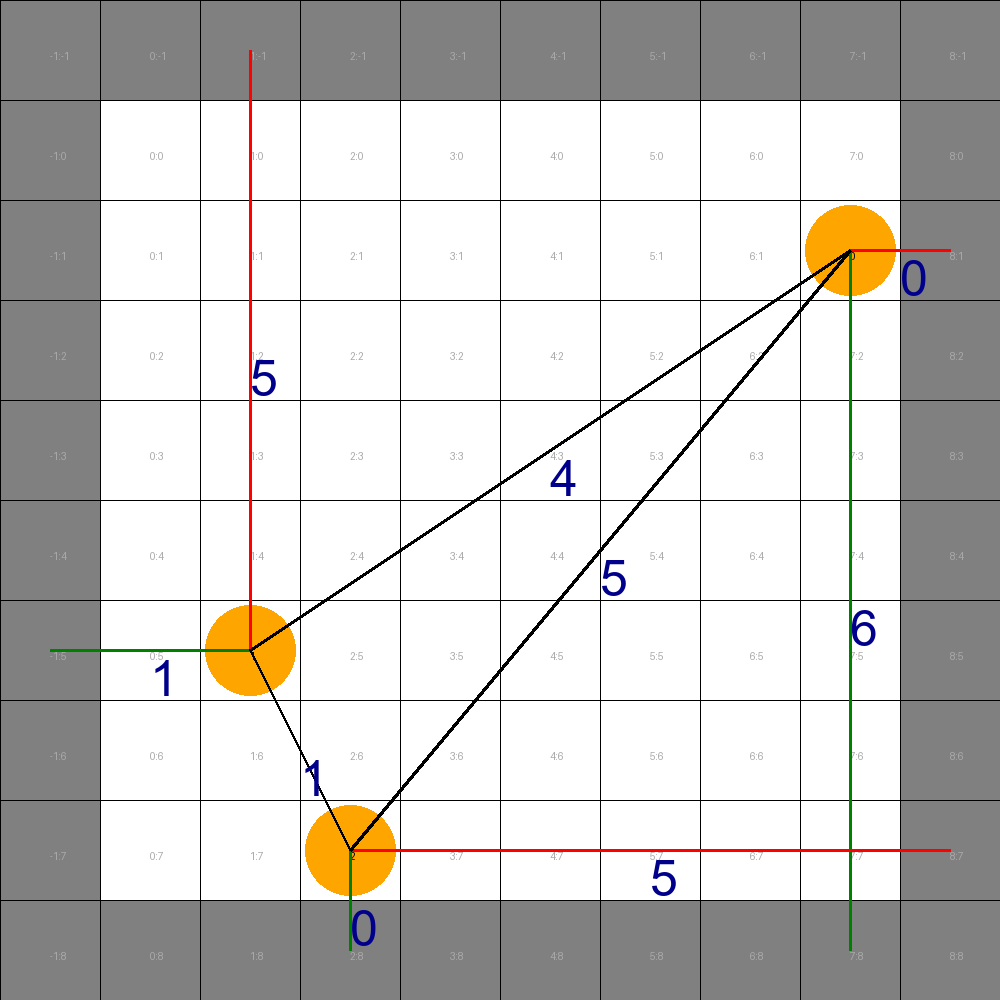
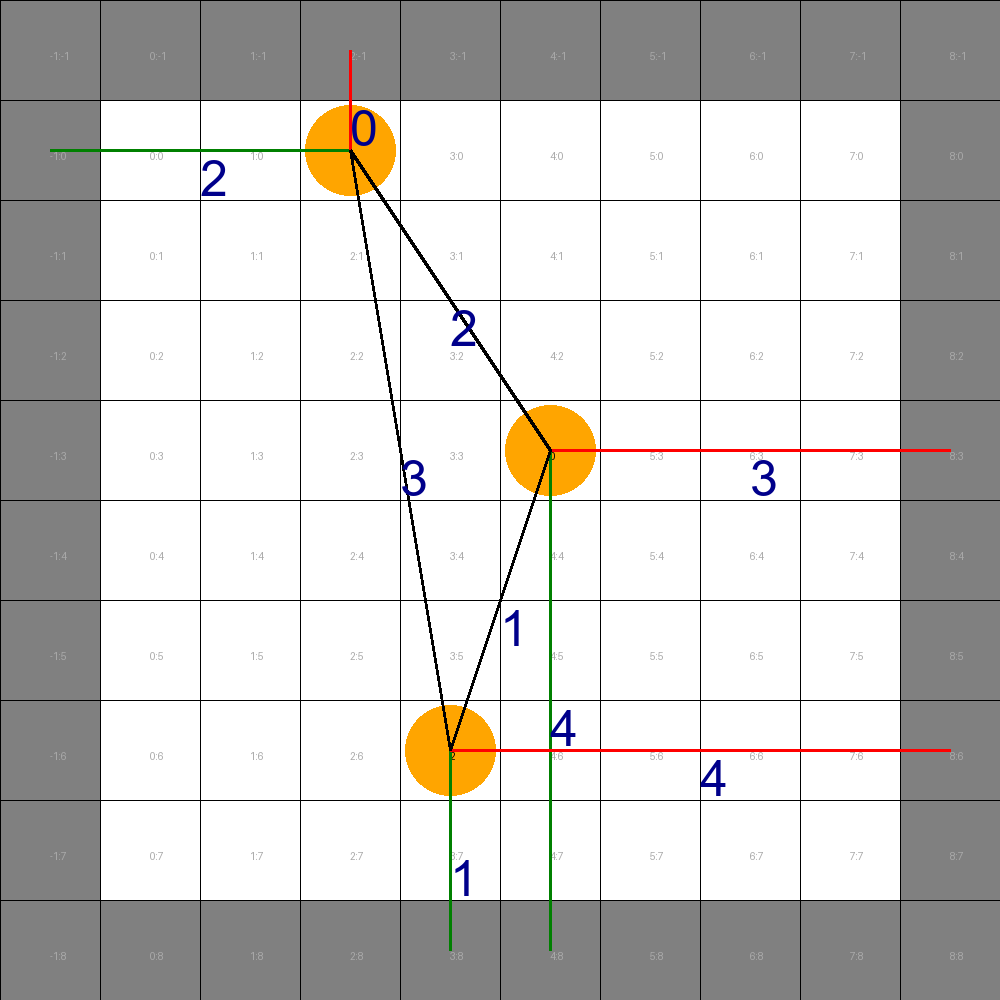
fix fire_time function to round down

diff --git a/olympiad/4/visualise.py b/olympiad/4/visualise.py
@@ -6,17 +6,16 @@ def fire_time(f1:tuple[int, int], f2:tuple[int, int]) -> int:
     x2, y2 = f2
 
     distance = abs(x1 - x2) + abs(y1 - y2) - 1
-    return round(distance / 2)
+    return round(distance / 2 - 0.1)
+
 
 def font(size):
     return ImageFont.truetype("arial.ttf", size)
 
-# Create a blank white image
 
 class FireImage:
-    def __init__(self, n_, fire_dict_ : dict[int,tuple[int, int]], fire_diagram_, wh=1000):
+    def __init__(self, n_, fire_dict_ : dict[int,tuple[int, int]], wh=1000):
         self.n = n_
-        #self.fire_diagram = fire_diagram_
         self.fire_dict = fire_dict_
         self.side = wh
 
@@ -129,10 +128,8 @@ class FireImage:
 
 FireImage(8,
           {0: (7, 1), 1: (1, 5), 2: (2, 7)},
-          {
-                -1: {0: 6, 1: 1, 2: 0},
-                0: {1: 4, 2: 5, 3: 0},
-                1: {0: 4, 2: 1, 3: 5},
-                2: {0: 5, 1: 1, 3: 5},
-                3: {}}
+          ).make_vis()
+
+FireImage(8,
+          {0: (4, 3), 1: (2, 0), 2: (3, 6)},
           ).make_vis()
